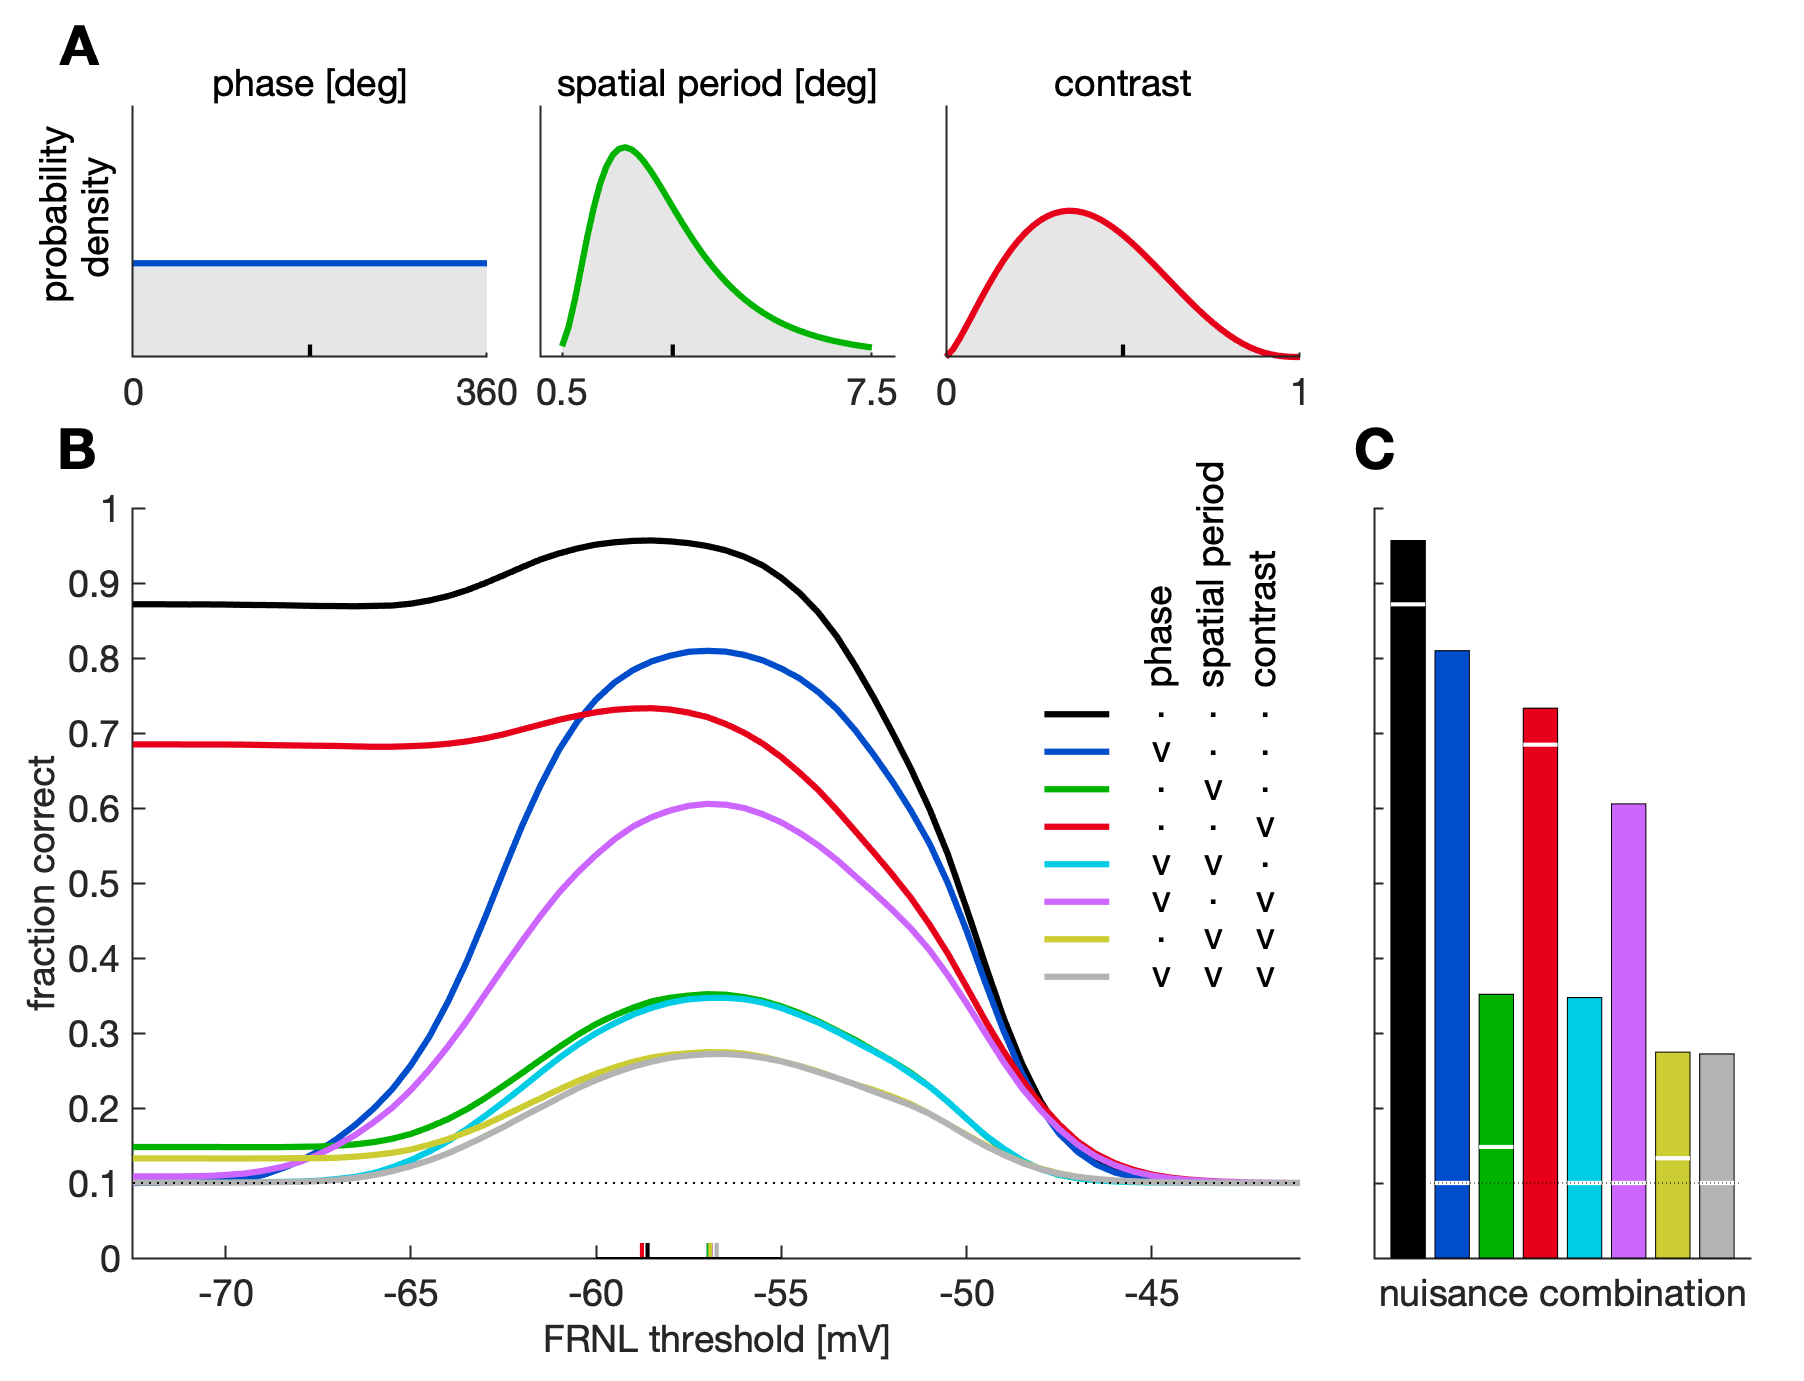
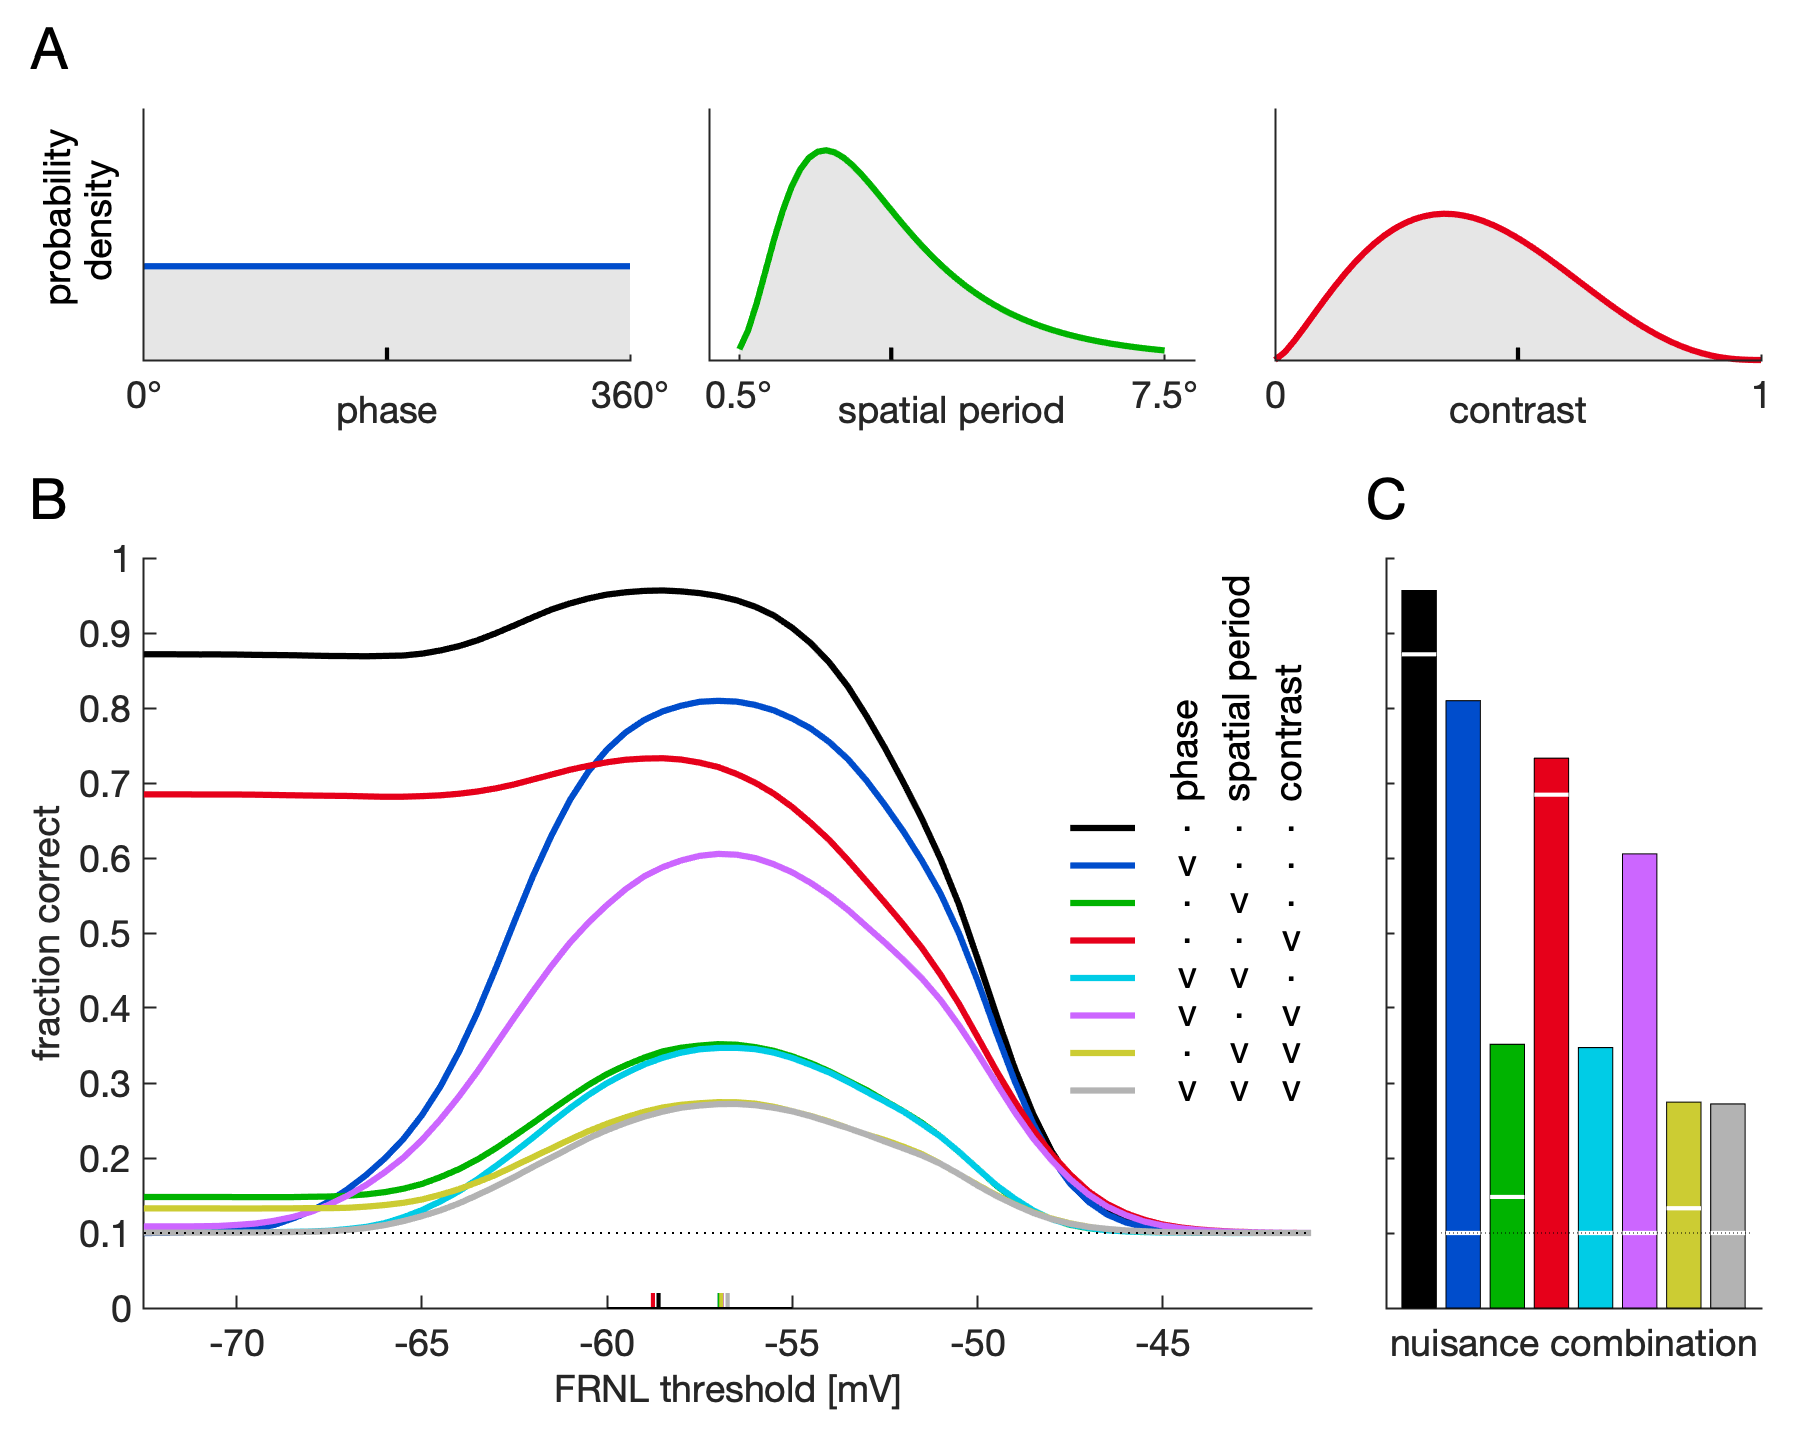
Add files via upload

diff --git a/Fig4/Fig4.m b/Fig4/Fig4.m
@@ -22,18 +22,18 @@ width_A = 560;
 width_C = 180;
 height_A = 120;
 height_B = 360;
-mtop = 50;
-mbottom = 60;
+mtop = 52;
+mbottom = 62;
 mright = 25;
-mleft = 65;
+mleft = 70;
 gapx = 36;
-gapy = 72.5;
+gapy = 95;
 figure_width = mleft+width_A+gapx+width_C+mright;
 figure_height = mbottom+height_B+gapy+height_A+mtop;
 set(gcf,'unit','pixel','position',[0 0 figure_width figure_height])
 set(gcf,'color','white')
-subgapx = 25;
-subwidth = (width_A-2*subgapx)/3;
+subgapx = 38;
+subwidth = (width_A+gapx+width_C-2*subgapx)/3;
 
 load('script_1d2d3d4d_data.mat');
 
@@ -63,14 +63,20 @@ for i1 = 1:3
     switch i1
         case 1
             yy = 0*xx+0.75;
-            text(180,2.2,'phase [deg]','fontsize',text_size,'HorizontalAlignment','center');
+            xlab = xlabel('phase','FontName','Helvetica','fontsize',text_size)
+            set(gca,'xticklabel',{sprintf('0%c',char(176)),sprintf('360%c',char(176))})
         case 2
             yy = 5*lognorm(xx)/integral(lognorm,0.5,7.5);
-            text(4,2.2,'spatial period [deg]','fontsize',text_size,'HorizontalAlignment','center');
+            xlab = xlabel('spatial period','FontName','Helvetica','fontsize',text_size)
+            set(gca,'xticklabel',{sprintf('0.5%c',char(176)),sprintf('7.5%c',char(176))})
         case 3
             yy = 0.6*beta(xx)/integral(beta,0,1);
-            text(.5,2.2,'contrast','fontsize',text_size,'HorizontalAlignment','center');
+            xlab = xlabel('contrast','FontName','Helvetica','fontsize',text_size)
     end
+    
+    xlab_pos = get(xlab,'position');
+    xlab_pos(2) = xlab_pos(2)+0.25;
+    set(xlab,'position',xlab_pos)
     
     plot([])
     area(xx,yy,'FaceColor',[.9 .9 .9],'EdgeColor','none')
@@ -79,9 +85,9 @@ for i1 = 1:3
     plot([nuisance(i1).star nuisance(i1).star],[0 0.1],'k','linewidth',2)
    
     if i1 == 1
-        text(-82,0.43,'probability','FontName','Helvetica','fontsize',text_size,'rotation',90)
-        text(-40,0.63,'density','FontName','Helvetica','fontsize',text_size,'rotation',90)
-        text(-55,2.5,'A','fontsize',panel_label_size,'FontName','Helvetica','HorizontalAlignment','center','fontweight','bold')
+        text(-65,0.43,'probability','FontName','Helvetica','fontsize',text_size,'rotation',90)
+        text(-35,0.63,'density','FontName','Helvetica','fontsize',text_size,'rotation',90)
+        text(-70,2.5,'A','fontsize',panel_label_size,'FontName','Helvetica','HorizontalAlignment','center')
     end     
 end
 
@@ -91,18 +97,22 @@ axes_position = [mleft mbottom width_A height_B];
 axes('unit','pixel','position',axes_position)
 set(gca,'FontName','Helvetica','fontsize',text_size,'linewidth',1)
 
-text(-74.0,1+panel_label_yshift,'B','fontsize',panel_label_size,'FontName','Helvetica','HorizontalAlignment','center','fontweight','bold')
+text(-75.1,1+panel_label_yshift,'B','fontsize',panel_label_size,'FontName','Helvetica','HorizontalAlignment','center')
 hold on
 
 set(gca,'xlim',[xmin,xmax],'xtick',-70:5:-45,'xticklabel',{'-70','-65','-60','-55','-50','-45'})
 set(gca,'ylim',[0 1],'ytick',0:.1:1)
 xlabel('FRNL threshold [mV]','FontName','Helvetica','fontsize',text_size)
-ylabel('fraction correct','FontName','Helvetica','fontsize',text_size)
+ylab = ylabel('fraction correct','FontName','Helvetica','fontsize',text_size)
+
+ylab_pos = get(ylab,'position');
+ylab_pos(1) = ylab_pos(1)-0.15;
+set(ylab,'position',ylab_pos)
 
 plots = [];
 
-leg_x0 = -47.9;
-leg_y0 = 0.725;
+leg_x0 = -47.5;
+leg_y0 = 0.64;
 leg_width = 1.75;
 leg_dx = 1.4;
 leg_dy = 0.05;
@@ -172,8 +182,8 @@ line([1 8]+dx,[1/K 1/K],'linestyle',':','color','k')
 
 xlabel('nuisance combination','FontName','Helvetica','fontsize',text_size)
 
-text(0,1+panel_label_yshift,'C','fontsize',panel_label_size,'FontName','Helvetica','HorizontalAlignment','center','fontweight','bold')
+text(0,1+panel_label_yshift,'C','fontsize',panel_label_size,'FontName','Helvetica','HorizontalAlignment','center')
 
-set(gcf,'PaperPositionMode','auto','papersize',[32 24]);
-print(gcf,'Fig4','-dpdf','-r0')
-saveas(gcf,sprintf('%s.png',mfilename));
+set(gcf,'PaperPositionMode','auto','papersize',[32 24.5]);
+print(gcf,mfilename,'-dpdf','-r0')
+saveas(gcf,[mfilename,'.png']);
